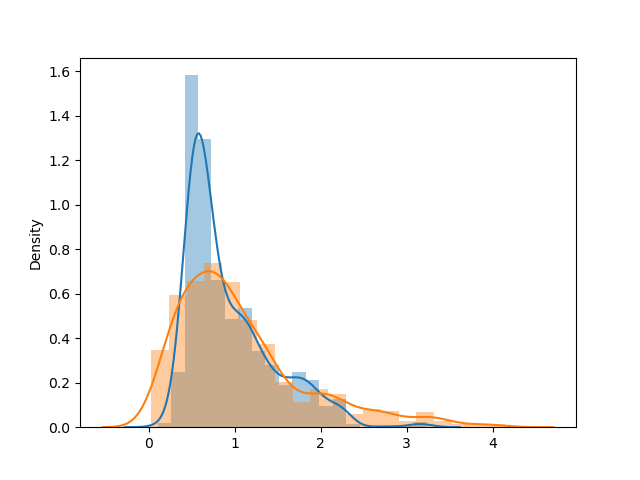
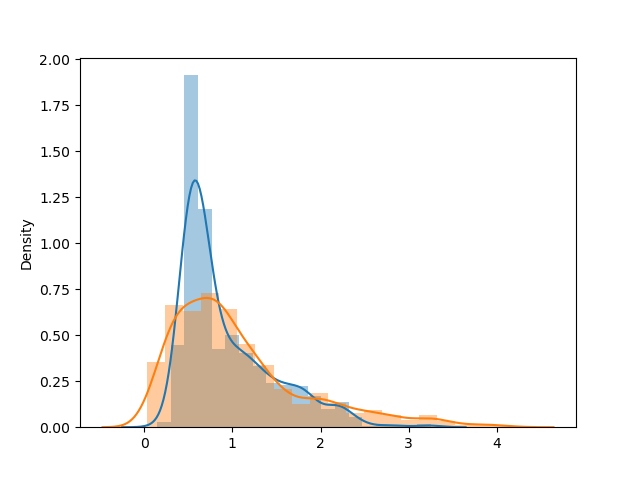
update for inference GPU

diff --git a/scripts/gpu/inference.py b/scripts/gpu/inference.py
@@ -47,19 +47,19 @@ data = np.load(list_of_samples_test[0], mmap_mode = 'c')
 data_label = pd.read_csv(list_of_samples_test_labels[0])
 
 ### Define samples
-x_train = tf.transpose(data[:9000,1], perm= [0,2,3,1])[:,:,:,4:]
-y_train = np.zeros((9000,3))
-y_train[:,0] = data_label[:9000]['e1']
-y_train[:,1] = data_label[:9000]['e2']
-y_train[:,2] = data_label[:9000]['redshift']
+x_train = tf.transpose(data[:8000,1], perm= [0,2,3,1])[:,:,:,4:]
+y_train = np.zeros((8000,3))
+y_train[:,0] = data_label[:8000]['e1']
+y_train[:,1] = data_label[:8000]['e2']
+y_train[:,2] = data_label[:8000]['redshift']
 y_train = tf.convert_to_tensor(y_train)
 ds_train = tf.data.Dataset.from_tensor_slices((np.expand_dims(x_train, axis = 1), np.expand_dims(y_train,axis = 1)))
 
-x_val = tf.transpose(data[9000:,1], perm= [0,2,3,1])[:,:,:,4:]
-y_val = np.zeros((1000,3))
-y_val[:,0] = data_label[9000:]['e1']
-y_val[:,1] = data_label[9000:]['e2']
-y_val[:,2] = data_label[9000:]['redshift']
+x_val = tf.transpose(data[8000:,1], perm= [0,2,3,1])[:,:,:,4:]
+y_val = np.zeros((2000,3))
+y_val[:,0] = data_label[8000:]['e1']
+y_val[:,1] = data_label[8000:]['e2']
+y_val[:,2] = data_label[8000:]['redshift']
 y_val = tf.convert_to_tensor(y_val)
 ds_val = tf.data.Dataset.from_tensor_slices((np.expand_dims(x_val, axis = 1), np.expand_dims(y_val, axis = 1)))
 
@@ -95,16 +95,21 @@ net.load_weights(latest)
 print('weights loaded')
 
 ### Do inference
-t_1 = time.time()
-#out = []
-out = net(x_val)
-#for i in range (len(x_val)):
-#    out.append(net(x_val[i]))
-#out = np.array(out)
-#out = net(x_val)
-t_2 = time.time()
-print('prediction done in: '+str(t_2-t_1)+' seconds')
-print(out.shape)
+## In once
+# t0 = time.time()
+# out = net(x_val[:1000])
+# t1 = time.time()
+
+## One by one
+out = []
+for i in range (1001):
+    if i == 1:
+        t0 = time.time()
+    out.append(net(np.expand_dims(x_val[i], axis = 1)))
+t1 = time.time()
+out = np.array(out)
+
+print('prediction done in: '+str(t1-t0)+' seconds')
 
 ### Plot results
 fig = plt.figure()
